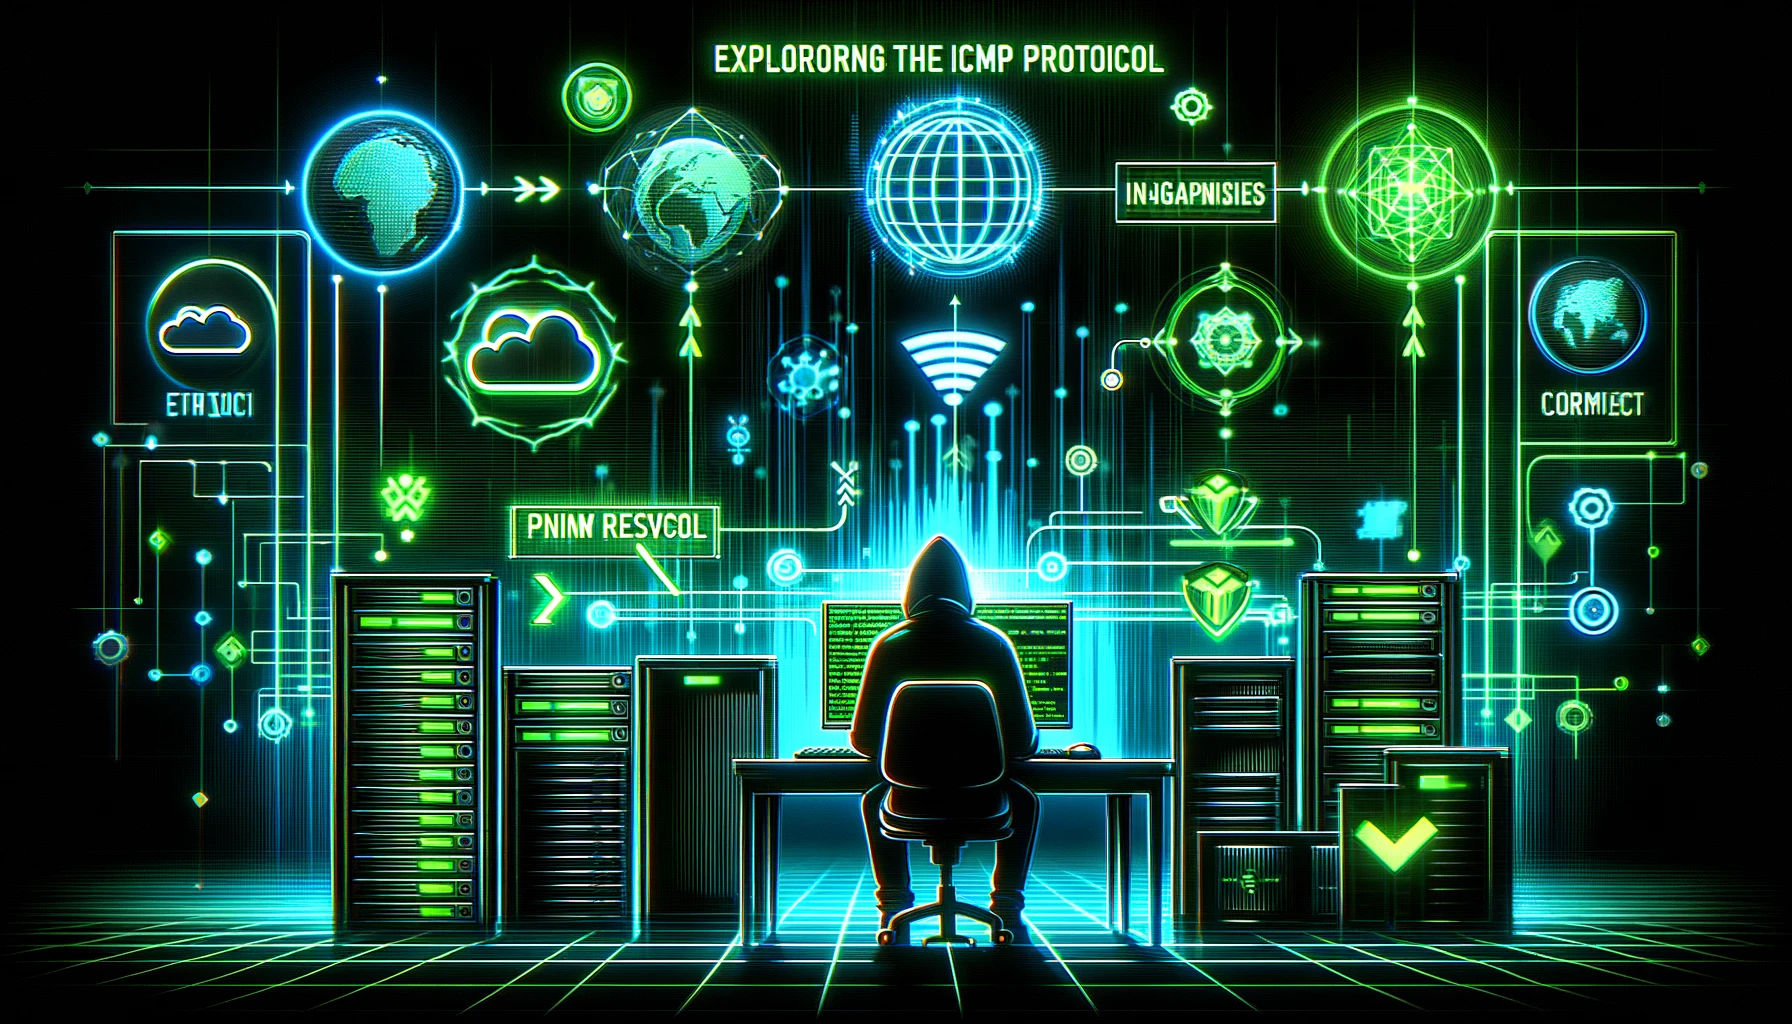
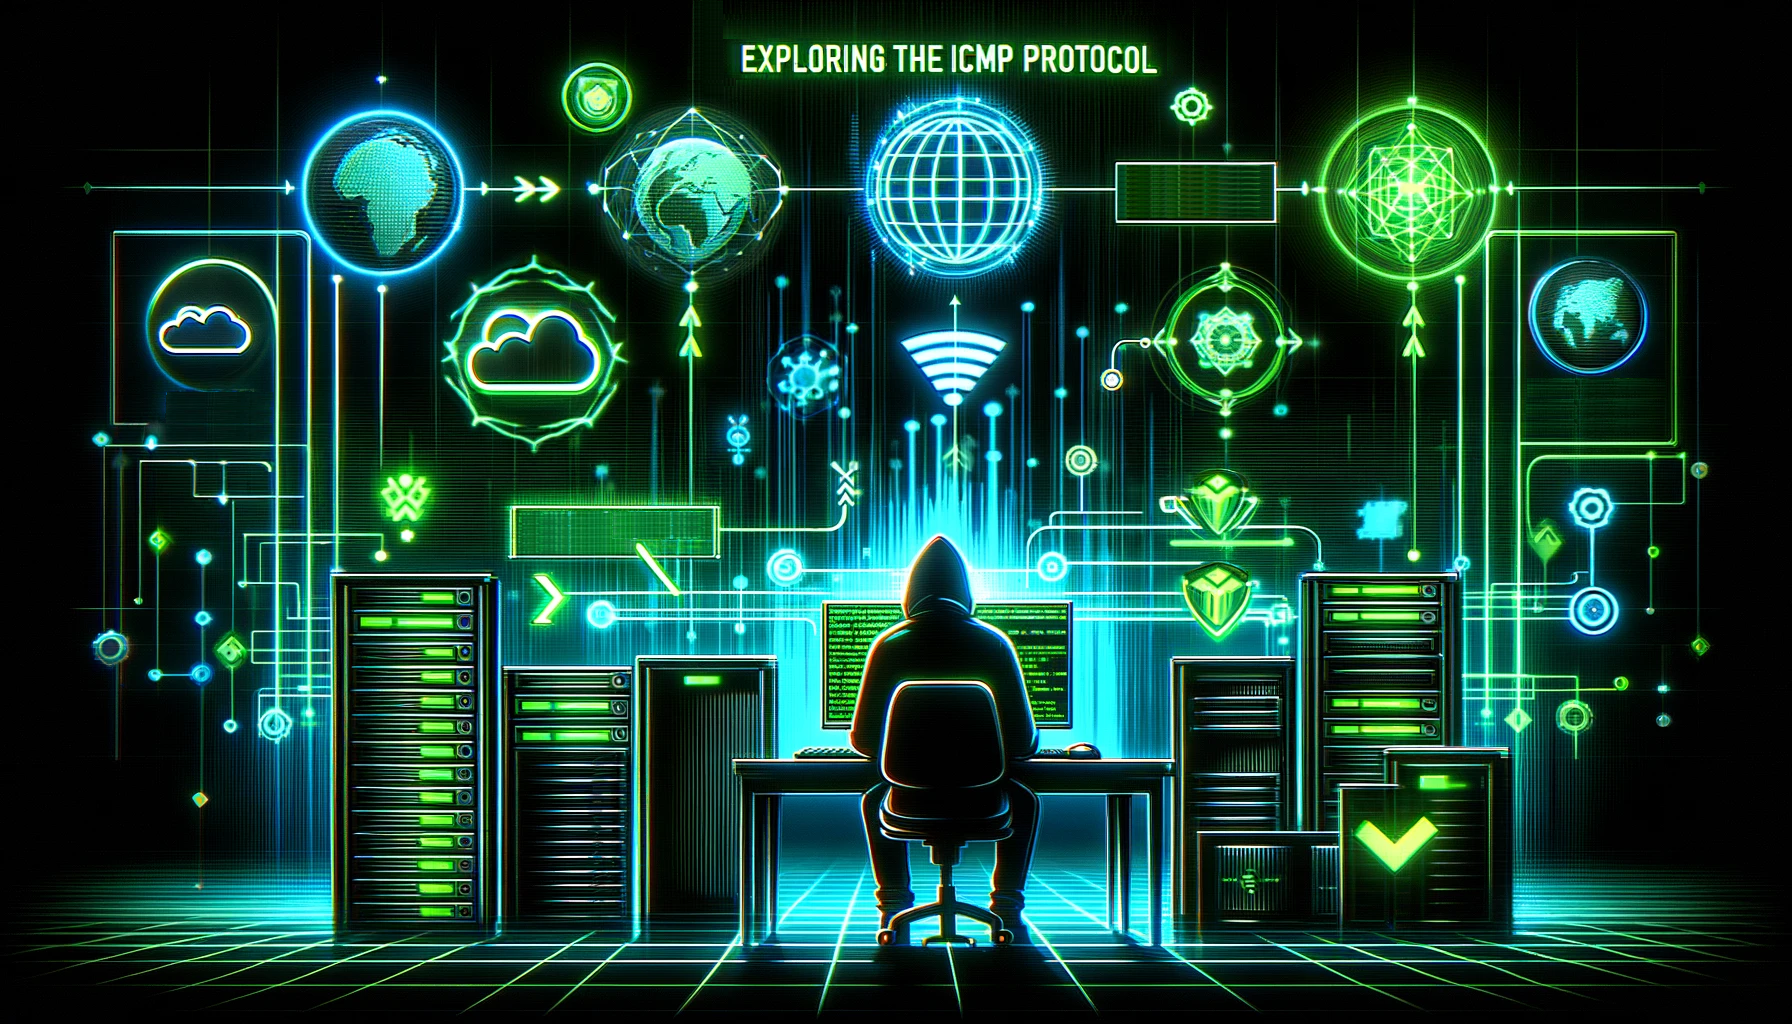
Fixed graphic issues

diff --git a/views/blog/network/icmp-protocol.html b/views/blog/network/icmp-protocol.html
@@ -76,7 +76,15 @@
    <div class="div"></div>
 
    <h3><span aria-hidden="true">🎯</span> In the End ...</h3>
-   <p>ICMP, often operating in the background, is the unsung hero of network communication. Its role in error reporting, network troubleshooting, and connectivity assessment cannot be overstated. As we navigate the complexities of the digital landscape, understanding the functions and significance of the ICMP protocol is essential for network administrators and enthusiasts alike. It remains a fundamental tool in ensuring the reliability and efficiency of data transmission across the interconnected web we rely on daily.</p>
+   <div class="flex">
+      <div class="col-50">
+         <p>ICMP, often operating in the background, is the unsung hero of network communication. Its role in error reporting, network troubleshooting, and connectivity assessment cannot be overstated. As we navigate the complexities of the digital landscape, understanding the functions and significance of the ICMP protocol is essential for network administrators and enthusiasts alike.</p>
+      </div>
+      <div class="col-50">
+         <p>It remains a fundamental tool in ensuring the reliability and efficiency of data transmission across the interconnected web we rely on daily. For more information about the ICMP protocol see the relating <b>Request for Comments</b>.</p>
+         <p>RFC: <a href="https://rfc-editor.org/rfc/rfc792.txt" target="_blank">https://rfc-editor.org/rfc/rfc792.txt</a></p>
+      </div>
+   </div>
 
    <div class="div"></div>
    <p>Got some light into the dark? Let's hope the lesson is clear.</p>

diff --git a/lib/Headers.js b/lib/Headers.js
@@ -46,7 +46,8 @@ const image = (host, type) => {
    return {
       'Host': host,
       'Content-Type': `image/${type}`,
-      'Cache-Control': 'max-age=604800', // 604800 seconds is one week
+      //'Cache-Control': 'max-age=604800', // 604800 seconds is one week
+      'Cache-Control': 'no cache',
       'Connection': 'close'
    }
 }
